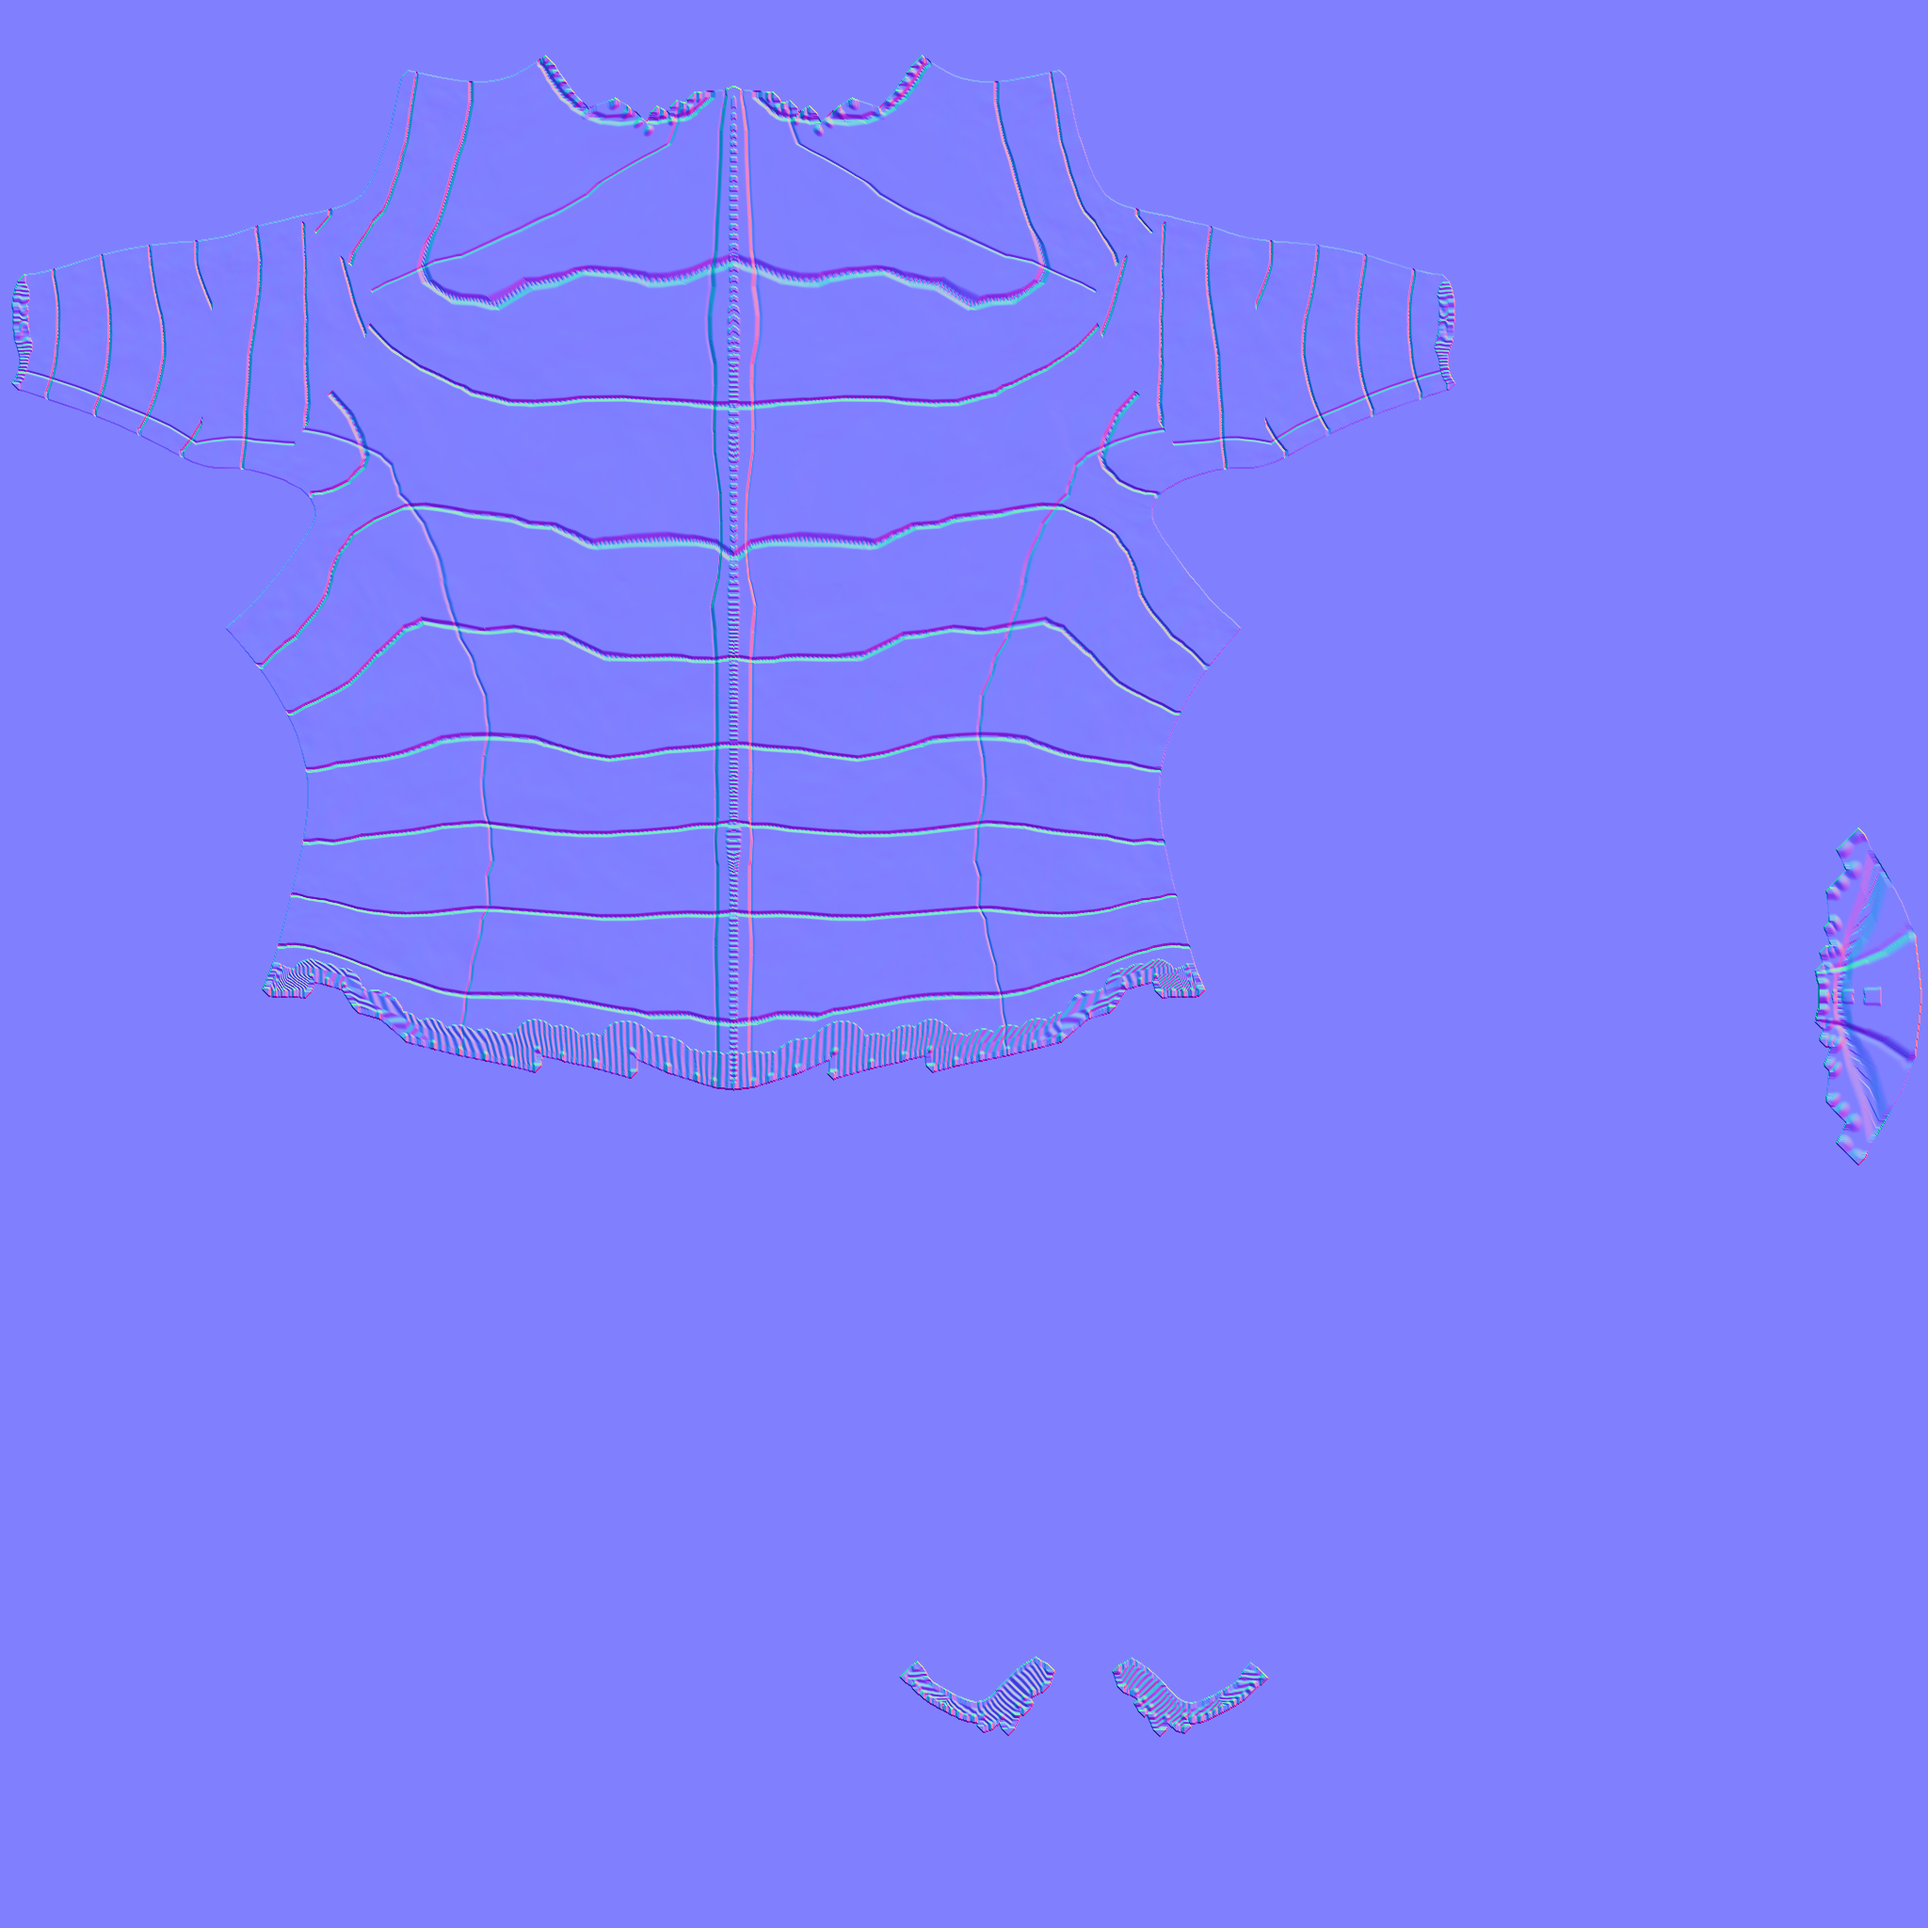
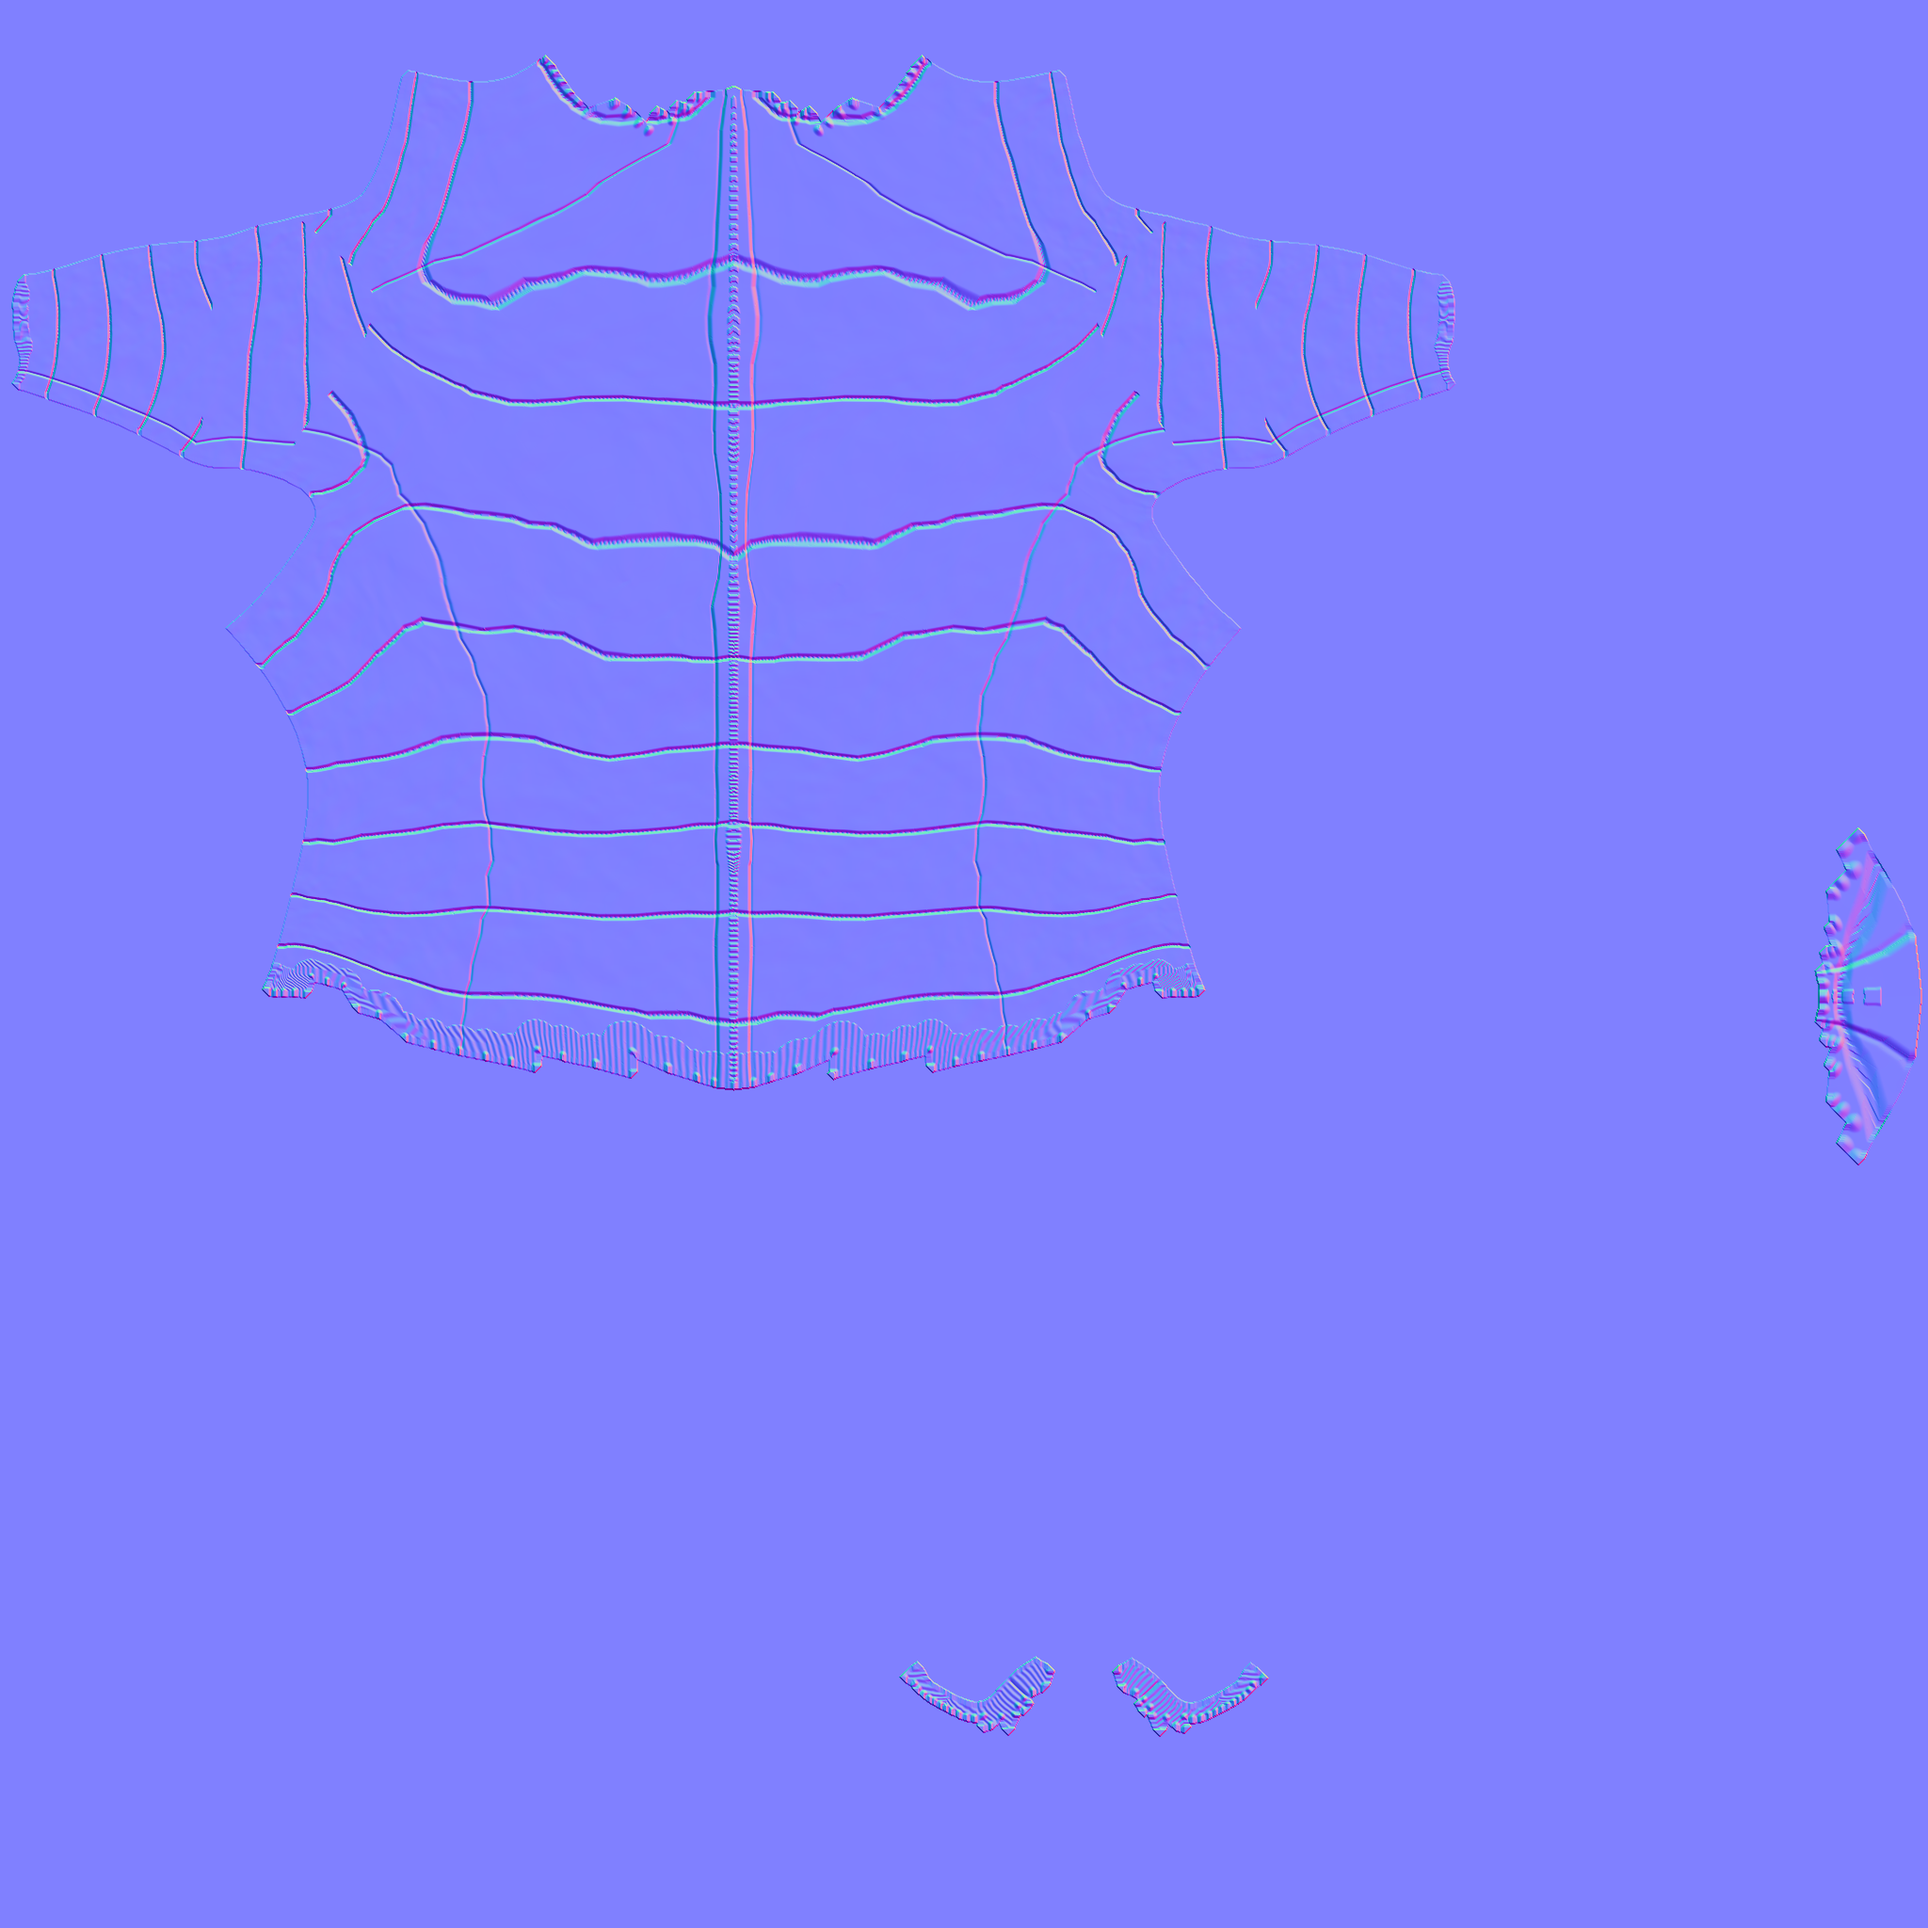
Personnages crédibles : peau, yeux, cheveux, vrais tissus, corps dédiés aux personnages d'histoire
- Peau (shader skin) : teint cuit avec variations, rougeurs, cernes, creux, rides selon l'âge,
  sourcils et barbe poil à poil, liseré des cils, brillance du sébum (A), pores à deux échelles,
  translucidité et duvet ; textures 2048 pour tous les corps
- Yeux : iris procéduraux (6 couleurs, fibres, anneau limbique), globe resserré, sclère moins blanche
- Cheveux : coques par coupe (court, afro, dégarni, long, bouclé) avec UV le long des mèches,
  reflet anisotrope et bord effilé (alpha), queue de cheval, chignon, carré
- Vêtements (shader cloth) : coutures, surpiqûres, poches, côtes, cordons, zip, plis et usure cuits
  sur l'UV du corps (communs à toutes les variantes) + motif tissé ; jean, molleton, jersey, doudoune,
  pull fin, gilet jaune et gilet de street medic
- Corps dédiés : Sam, Karim, Jo, commissaire, Nadia, Mme Ferreira ; CastLooks refait (bible),
  caméra de Lou, écharpe tricolore du commissaire
- Textures des personnages en compression VRAM avec mipmaps (tools/char_imports.sh)
- Données MakeHuman CC0 : dépôt makehumancommunity/makehuman (MH_DATA)

Claude-Session: https://claude.ai/code/session_01XCp28CN464r1E652tC3a6K

diff --git a/tools/char_textures.py b/tools/char_textures.py
@@ -607,7 +607,7 @@ def bake_garments(out, Pb, Nb, TV, TT, VT, head, lm, tris, size=2048, msize=1024
     shade *= 1.0 - 0.3 * _ridge(zip_d - 0.004, 0.0015)
     cuffj = (np.abs(bx) > sh_x + 0.05) & (by < neck_y - 0.1)
     elastic = (d < 0.025) * (cuffj | (by < hip_y + 0.05))
-    h += 0.0006 * elastic * (0.5 + 0.5 * np.sin(np.where(is_armv, a_a * a_r, ta * tr) * 2 * np.pi / 0.006))
+    h += 0.0003 * elastic * (0.5 + 0.5 * np.sin(np.where(is_armv, a_a * a_r, ta * tr) * 2 * np.pi / 0.006))
     trim = np.maximum(trim, elastic * 0.8)
     h += 0.001 * smooth(0.004, 0.0, d); shade *= 1.0 - 0.25 * smooth(0.007, 0.0, d)
     sd = np.where(is_armv, np.abs(a_a) * a_r, side_arc)
@@ -721,7 +721,7 @@ def bake_garments(out, Pb, Nb, TV, TT, VT, head, lm, tris, size=2048, msize=1024
         u, v = np.abs(X - cx), np.abs(Y - cy)
         return ((u < s) & (v < s * 0.33) | (u < s * 0.33) & (v < s)) * mask
     cross = np.maximum(cross, cross_at(0.0, hip_y + 0.31, 0.075, np.abs(ta) > 2.3))
-    cross = np.maximum(cross, cross_at(0.08, hip_y + 0.3, 0.045, (np.abs(ta) < 1.0) & (X > 0)))
+    cross = np.maximum(cross, cross_at(0.1, hip_y + 0.3, 0.03, (np.abs(ta) < 1.0) & (X > 0)))
     # bande « velcro » d'ouverture devant
     vel = smooth(0.012, 0.009, np.where(np.abs(ta) < 1.0, np.abs(X), 1.0))
     h += 0.0005 * vel
